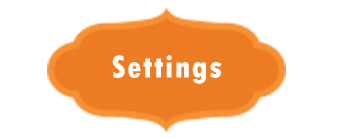
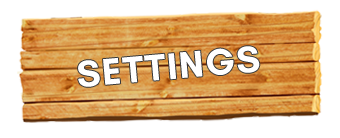
Updated menu tabs

diff --git a/src/BluebellAdventures/CreateScenes/CreateCharacterSelectionScene.java b/src/BluebellAdventures/CreateScenes/CreateCharacterSelectionScene.java
@@ -19,12 +19,12 @@ public class CreateCharacterSelectionScene {
         //init Sprite
         Sprite rat = new Sprite("resource/image/rat.png", new Point(40, 250));
         Sprite raccoon = new Sprite("resource/image/raccoon.png", new Point(180, 250));
-        Sprite dog = new Sprite("resource/image/dog.png", new Point(390, 250));
+        Sprite dog = new Sprite("resource/image/dog.png", new Point(415, 250));
         Sprite cat = new Sprite("resource/image/cat.png", new Point(630, 250));
         Sprite fox = new Sprite("resource/image/fox.png", new Point(830, 250));
         Sprite roach = new Sprite("resource/image/roach.png", new Point(1045, 250));
 
-        Sprite back = new Sprite("resource/image/tab_back.png", new Point(1150, 600));
+        Sprite back = new Sprite("resource/image/tab_back.png", new Point(950, 650));
         Sprite background = new Sprite("resource/image/character_design.png");
 
         rat.setName("rat");
